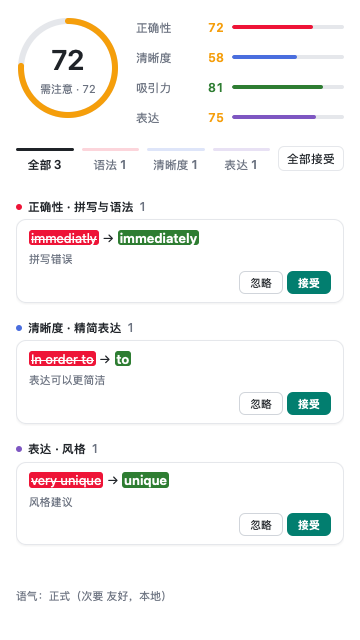
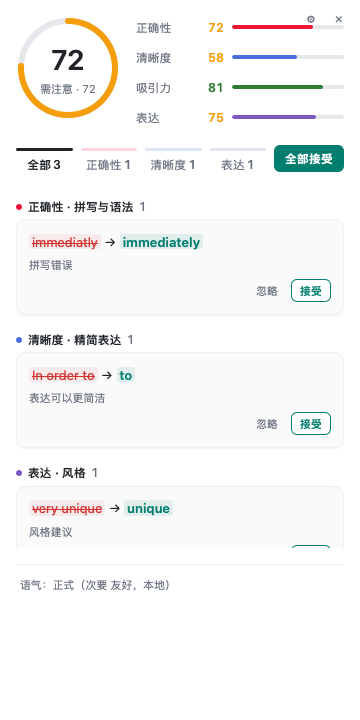
polish(web): 三分层 / 主次拨正 / 颜色收敛 / 外围控件 / 三态
按知澜六条+数值落地：
1. 卡片 #FAFAFA 底 + 1px #EEF0F3 边 + --shadow-card；面板白 → 卡片灰 → 正文白 三分层
2. 主次拨正：全部接受 = 品牌绿实心白字（一屏唯一实心）；单个接受 = 绿字描边；忽略 = 纯文字
3. 颜色收敛：类别色只出现在色点/进度条/tab 条；删除统一 #D32F2F；建议词与接受动作统一 #027E6F
4. 顶部收紧：仪表盘与四维 24→16；底部语气行加 1px #EEF0F3 分隔线、行高 40
5. 外围控件：右上角 ⚙ 设置 / × 关闭（close 直接收，settings 打开设置窗）
6. 三态：卡片 hover #F5F7F9；无建议显示绿勾「没有发现问题」；接受后卡片 200ms 淡出再通知 Swift
- 取证：--webui 离屏快照 360×720，测试数据改用新 tab 命名
- 断言：--webui 11/0、--ui 107/0；装机 SYNC

diff --git a/extension/ui/sidebar.css b/extension/ui/sidebar.css
@@ -3,6 +3,7 @@
 * { box-sizing: border-box; -webkit-user-select: none; }
 body { margin:0; font: var(--f-body)/1.45 -apple-system, "SF Pro Text", "PingFang SC", sans-serif;
        color: var(--text); background: var(--bg); }
+/* 三分层：面板白 → 卡片 #FAFAFA → 白底正文，靠底色+细边+轻阴影分层，不靠粗边框 */
 .wrap { padding: var(--s4); display:flex; flex-direction:column; gap: var(--s4); height:100vh; }
 .head { display:flex; gap: var(--s4); align-items:flex-start; }
 .ring { position:relative; width:104px; height:104px; flex:0 0 104px; }
@@ -26,29 +27,43 @@ body { margin:0; font: var(--f-body)/1.45 -apple-system, "SF Pro Text", "PingFan
 .tab.on span { color: var(--text); font-weight:600; }
 .tab:not(.on) i { opacity:.18; }
 .tab b { font-variant-numeric: tabular-nums; font-weight:600; margin-left:2px; }
-.allbtn { font-size: var(--f-secondary); border:1px solid var(--border); background:var(--bg);
-          border-radius: var(--r-control); padding:4px 8px; cursor:pointer; color: var(--text); }
+.allbtn { font-size: var(--f-secondary); border:1px solid var(--brand); background:var(--brand); color:#fff;
+          font-weight:600; border-radius: var(--r-control); padding:5px 10px; cursor:pointer; }
+.allbtn:hover { filter: brightness(1.06); }
 .list { flex:1; min-height:0; overflow-y:auto; display:flex; flex-direction:column;
         gap: var(--s2); padding-bottom: var(--s6); }
 .group { display:flex; flex-direction:column; gap: var(--s1); }
 .ghead { display:flex; align-items:center; gap:6px; font-size: var(--f-secondary); font-weight:600; margin-top: var(--s2); }
 .ghead em { width:6px; height:6px; border-radius:999px; font-style:normal; }
 .ghead span { color: var(--text-muted); font-weight:500; }
-.row { border:1px solid var(--border); border-radius: var(--r-card); background: var(--bg);
-       box-shadow: var(--shadow-card); padding: var(--s2) var(--s3); display:flex;
-       flex-direction:column; gap:4px; cursor:pointer; transition: background .12s; }
-.row:hover { background: var(--bg-subtle); }
+.row { border:1px solid var(--hairline); border-radius: var(--r-card); background: var(--card-bg);
+       box-shadow: var(--shadow-card); padding: var(--s3); display:flex;
+       flex-direction:column; gap:6px; cursor:pointer; transition: background .12s, opacity .2s; }
+.row:hover { background: var(--hover-bg); }
+.row.leaving { opacity:0; }
 .row.flash { background:#FFE3EC; }
 .line { font-size: var(--f-body); }
-.old { color:#fff; background: var(--correctness); text-decoration: line-through; border-radius:3px; padding:0 2px; }
-.new { color:#fff; background: var(--engagement); font-weight:600; border-radius:3px; padding:0 2px; }
+/* 颜色只承担一个含义：类别色只出现在色点/进度条/tab 条；删除=#D32F2F；接受动作=品牌绿 */
+.old { color: var(--danger); background: rgba(211,47,47,.08); text-decoration: line-through; border-radius:3px; padding:0 3px; }
+.new { color: var(--brand); background: rgba(2,126,111,.10); font-weight:600; border-radius:3px; padding:0 3px; }
 .reason { font-size: var(--f-caption); color: var(--text-muted); }
 .acts { display:flex; gap:var(--s1); justify-content:flex-end; }
-.btn { font-size: var(--f-caption); border-radius: var(--r-control); border:1px solid #D1D5DB;
-       background: var(--bg); color: var(--text); padding:4px 10px; cursor:pointer; }
-.btn:hover { background: var(--bg-subtle); border-color: #9CA3AF; }
-.btn.primary { background: var(--brand); border-color: var(--brand); color:#fff; font-weight:600; }
-.foot { font-size: var(--f-caption); color: var(--text-muted); }
+.btn { font-size: var(--f-caption); border-radius: var(--r-control); border:1px solid transparent;
+       background: transparent; color: var(--text-muted); padding:4px 8px; cursor:pointer; }
+.btn:hover { background: var(--bg-subtle); color: var(--text); }
+/* 单个「接受」= 绿字描边（次级）；「忽略」= 纯文字（三级）；实心只留给「全部接受」 */
+.btn.primary { border-color: var(--brand); color: var(--brand); font-weight:600; background: var(--bg); }
+.btn.primary:hover { background: rgba(2,126,111,.08); }
+.foot { font-size: var(--f-caption); color: var(--text-muted); border-top:1px solid var(--hairline);
+        height:40px; display:flex; align-items:center; padding:0 var(--s1); }
+.corner { position:absolute; top:8px; right:10px; display:flex; gap:6px; }
+.iconbtn { width:22px; height:22px; border-radius: var(--r-control); border:none; background:transparent;
+           color: var(--text-muted); cursor:pointer; font-size:13px; line-height:1; }
+.iconbtn:hover { background: var(--bg-subtle); color: var(--text); }
+.empty { display:flex; flex-direction:column; align-items:center; gap: var(--s2);
+         padding: var(--s8) 0; color: var(--text-muted); font-size: var(--f-secondary); }
+.empty .tick { width:28px; height:28px; border-radius:999px; background: rgba(46,125,50,.12);
+               color: var(--engagement); display:flex; align-items:center; justify-content:center; font-size:15px; }
 .saved { position:absolute; top:10px; right:14px; font-size: var(--f-caption); color: var(--engagement);
          font-weight:600; opacity:0; transition: opacity .2s; }
 .saved.on { opacity:1; }

diff --git a/web/sidebar/sidebar.css b/web/sidebar/sidebar.css
@@ -3,6 +3,7 @@
 * { box-sizing: border-box; -webkit-user-select: none; }
 body { margin:0; font: var(--f-body)/1.45 -apple-system, "SF Pro Text", "PingFang SC", sans-serif;
        color: var(--text); background: var(--bg); }
+/* 三分层：面板白 → 卡片 #FAFAFA → 白底正文，靠底色+细边+轻阴影分层，不靠粗边框 */
 .wrap { padding: var(--s4); display:flex; flex-direction:column; gap: var(--s4); height:100vh; }
 .head { display:flex; gap: var(--s4); align-items:flex-start; }
 .ring { position:relative; width:104px; height:104px; flex:0 0 104px; }
@@ -26,29 +27,43 @@ body { margin:0; font: var(--f-body)/1.45 -apple-system, "SF Pro Text", "PingFan
 .tab.on span { color: var(--text); font-weight:600; }
 .tab:not(.on) i { opacity:.18; }
 .tab b { font-variant-numeric: tabular-nums; font-weight:600; margin-left:2px; }
-.allbtn { font-size: var(--f-secondary); border:1px solid var(--border); background:var(--bg);
-          border-radius: var(--r-control); padding:4px 8px; cursor:pointer; color: var(--text); }
+.allbtn { font-size: var(--f-secondary); border:1px solid var(--brand); background:var(--brand); color:#fff;
+          font-weight:600; border-radius: var(--r-control); padding:5px 10px; cursor:pointer; }
+.allbtn:hover { filter: brightness(1.06); }
 .list { flex:1; min-height:0; overflow-y:auto; display:flex; flex-direction:column;
         gap: var(--s2); padding-bottom: var(--s6); }
 .group { display:flex; flex-direction:column; gap: var(--s1); }
 .ghead { display:flex; align-items:center; gap:6px; font-size: var(--f-secondary); font-weight:600; margin-top: var(--s2); }
 .ghead em { width:6px; height:6px; border-radius:999px; font-style:normal; }
 .ghead span { color: var(--text-muted); font-weight:500; }
-.row { border:1px solid var(--border); border-radius: var(--r-card); background: var(--bg);
-       box-shadow: var(--shadow-card); padding: var(--s2) var(--s3); display:flex;
-       flex-direction:column; gap:4px; cursor:pointer; transition: background .12s; }
-.row:hover { background: var(--bg-subtle); }
+.row { border:1px solid var(--hairline); border-radius: var(--r-card); background: var(--card-bg);
+       box-shadow: var(--shadow-card); padding: var(--s3); display:flex;
+       flex-direction:column; gap:6px; cursor:pointer; transition: background .12s, opacity .2s; }
+.row:hover { background: var(--hover-bg); }
+.row.leaving { opacity:0; }
 .row.flash { background:#FFE3EC; }
 .line { font-size: var(--f-body); }
-.old { color:#fff; background: var(--correctness); text-decoration: line-through; border-radius:3px; padding:0 2px; }
-.new { color:#fff; background: var(--engagement); font-weight:600; border-radius:3px; padding:0 2px; }
+/* 颜色只承担一个含义：类别色只出现在色点/进度条/tab 条；删除=#D32F2F；接受动作=品牌绿 */
+.old { color: var(--danger); background: rgba(211,47,47,.08); text-decoration: line-through; border-radius:3px; padding:0 3px; }
+.new { color: var(--brand); background: rgba(2,126,111,.10); font-weight:600; border-radius:3px; padding:0 3px; }
 .reason { font-size: var(--f-caption); color: var(--text-muted); }
 .acts { display:flex; gap:var(--s1); justify-content:flex-end; }
-.btn { font-size: var(--f-caption); border-radius: var(--r-control); border:1px solid #D1D5DB;
-       background: var(--bg); color: var(--text); padding:4px 10px; cursor:pointer; }
-.btn:hover { background: var(--bg-subtle); border-color: #9CA3AF; }
-.btn.primary { background: var(--brand); border-color: var(--brand); color:#fff; font-weight:600; }
-.foot { font-size: var(--f-caption); color: var(--text-muted); }
+.btn { font-size: var(--f-caption); border-radius: var(--r-control); border:1px solid transparent;
+       background: transparent; color: var(--text-muted); padding:4px 8px; cursor:pointer; }
+.btn:hover { background: var(--bg-subtle); color: var(--text); }
+/* 单个「接受」= 绿字描边（次级）；「忽略」= 纯文字（三级）；实心只留给「全部接受」 */
+.btn.primary { border-color: var(--brand); color: var(--brand); font-weight:600; background: var(--bg); }
+.btn.primary:hover { background: rgba(2,126,111,.08); }
+.foot { font-size: var(--f-caption); color: var(--text-muted); border-top:1px solid var(--hairline);
+        height:40px; display:flex; align-items:center; padding:0 var(--s1); }
+.corner { position:absolute; top:8px; right:10px; display:flex; gap:6px; }
+.iconbtn { width:22px; height:22px; border-radius: var(--r-control); border:none; background:transparent;
+           color: var(--text-muted); cursor:pointer; font-size:13px; line-height:1; }
+.iconbtn:hover { background: var(--bg-subtle); color: var(--text); }
+.empty { display:flex; flex-direction:column; align-items:center; gap: var(--s2);
+         padding: var(--s8) 0; color: var(--text-muted); font-size: var(--f-secondary); }
+.empty .tick { width:28px; height:28px; border-radius:999px; background: rgba(46,125,50,.12);
+               color: var(--engagement); display:flex; align-items:center; justify-content:center; font-size:15px; }
 .saved { position:absolute; top:10px; right:14px; font-size: var(--f-caption); color: var(--engagement);
          font-weight:600; opacity:0; transition: opacity .2s; }
 .saved.on { opacity:1; }

diff --git a/web/sidebar/sidebar.js b/web/sidebar/sidebar.js
@@ -34,6 +34,12 @@ const EW = {
       + `<button class="allbtn" title="一次改完所有建议，可用 ⌘Z 撤销" onclick="EW.post({action:'acceptAll'})">全部接受</button>`;
 
     const groups = (d.groups || []).filter(g => !this.filter || g.type === this.filter);
+    if (!groups.length) {
+      document.getElementById('list').innerHTML =
+        `<div class="empty"><div class="tick">✓</div><div>没有发现问题</div></div>`;
+      document.getElementById('tone').textContent = d.tone ? ('语气：' + d.tone) : '';
+      return;
+    }
     document.getElementById('list').innerHTML = groups.map(g => `<div class="group">
       <div class="ghead"><em style="background:${typeColor(g.type)}"></em>
         ${esc(g.title)} <span>${g.items.length}</span></div>
@@ -42,11 +48,18 @@ const EW = {
           <div class="reason">${esc(it.reason)}</div>
           <div class="acts">
             <button class="btn" onclick="event.stopPropagation();EW.post({action:'dismiss',id:${it.id}})">忽略</button>
-            <button class="btn primary" onclick="event.stopPropagation();EW.post({action:'accept',id:${it.id}})">接受</button>
+            <button class="btn primary" onclick="event.stopPropagation();EW.accept(${it.id}, this)">接受</button>
           </div></div>`).join('')}
     </div>`).join('') || '<div class="foot">没有更多建议</div>';
 
     document.getElementById('tone').textContent = d.tone ? ('语气：' + d.tone) : '';
+  },
+
+  // 接受：先在 200ms 内淡出这张卡，再通知 Swift（Swift 会重推新的计数与分数）
+  accept(id, btn) {
+    const row = btn.closest('.row');
+    if (row) { row.classList.add('leaving'); }
+    setTimeout(() => this.post({ action: 'accept', id: id }), 180);
   },
 
   pick(i) { this.filter = i === 0 ? null : ['grammar', 'clarity', 'style'][i - 1]; this.render(this.data); },

diff --git a/Sources/WebUISelfTest.swift b/Sources/WebUISelfTest.swift
@@ -56,7 +56,7 @@ final class WebUISelfTest: NSObject, WKNavigationDelegate {
         {"overall":72,"band":"需注意 · 72","tone":"正式（次要 友好，本地）",
          "dims":[{"name":"正确性","value":72,"note":"拼写 1"},{"name":"清晰度","value":58,"note":"冗长 2"},
                  {"name":"吸引力","value":81,"note":"多样性 74%"},{"name":"表达","value":75,"note":"中性"}],
-         "tabs":[{"name":"全部","n":3},{"name":"语法","n":1},{"name":"清晰度","n":1},{"name":"表达","n":1}],
+         "tabs":[{"name":"全部","n":3},{"name":"正确性","n":1},{"name":"清晰度","n":1},{"name":"表达","n":1}],
          "groups":[{"title":"正确性 · 拼写与语法","type":"grammar","items":[
                      {"id":0,"original":"immediatly","replacement":"immediately","reason":"拼写错误"}]},
                    {"title":"清晰度 · 精简表达","type":"clarity","items":[
@@ -124,7 +124,7 @@ final class WebUISelfTest: NSObject, WKNavigationDelegate {
             try? await Task.sleep(nanoseconds: 300_000_000)
             try? await Task.sleep(nanoseconds: 300_000_000)
             let cfg = WKSnapshotConfiguration()
-            cfg.rect = CGRect(x: 0, y: 0, width: 360, height: 640)
+            cfg.rect = CGRect(x: 0, y: 0, width: 360, height: 720)
             let img: NSImage? = await withCheckedContinuation { cont in
                 w.takeSnapshot(with: cfg) { image, _ in cont.resume(returning: image) }
             }

diff --git a/web/sidebar/index.html b/web/sidebar/index.html
@@ -3,6 +3,10 @@
 </head><body>
 <div class="wrap">
   <div class="saved" id="saved">已保存</div>
+  <div class="corner">
+    <button class="iconbtn" title="设置" onclick="EW.post({action:'settings'})">⚙</button>
+    <button class="iconbtn" title="关闭" onclick="EW.post({action:'close'})">×</button>
+  </div>
   <div class="head">
     <div class="ring">
       <svg width="104" height="104">

diff --git a/extension/ui/tokens.css b/extension/ui/tokens.css
@@ -8,6 +8,7 @@
   --bg: #FFFFFF; --bg-subtle: #FAFAFA; --border: #E5E7EB;
   --text: #1F2328; --text-muted: #6B7280;
   --shadow-card: 0 1px 2px rgba(0,0,0,.06);
+  --danger: #D32F2F; --card-bg: #FAFAFA; --hairline: #EEF0F3; --hover-bg: #F5F7F9;
   --shadow-popover: 0 4px 16px rgba(0,0,0,.12);
   --shadow-panel: 0 8px 32px rgba(0,0,0,.16);
 }

diff --git a/web/sidebar/tokens.css b/web/sidebar/tokens.css
@@ -8,6 +8,7 @@
   --bg: #FFFFFF; --bg-subtle: #FAFAFA; --border: #E5E7EB;
   --text: #1F2328; --text-muted: #6B7280;
   --shadow-card: 0 1px 2px rgba(0,0,0,.06);
+  --danger: #D32F2F; --card-bg: #FAFAFA; --hairline: #EEF0F3; --hover-bg: #F5F7F9;
   --shadow-popover: 0 4px 16px rgba(0,0,0,.12);
   --shadow-panel: 0 8px 32px rgba(0,0,0,.16);
 }

diff --git a/Sources/SidebarWeb.swift b/Sources/SidebarWeb.swift
@@ -172,6 +172,8 @@ extension Sidebar: WKScriptMessageHandler {
             onAcceptAll?(); showSaved()
         case "close":
             orderOut(nil)
+        case "settings":
+            if let model = AppModel.diagRef { SettingsWindowController.shared.show(model: model) }
         default:
             break
         }
